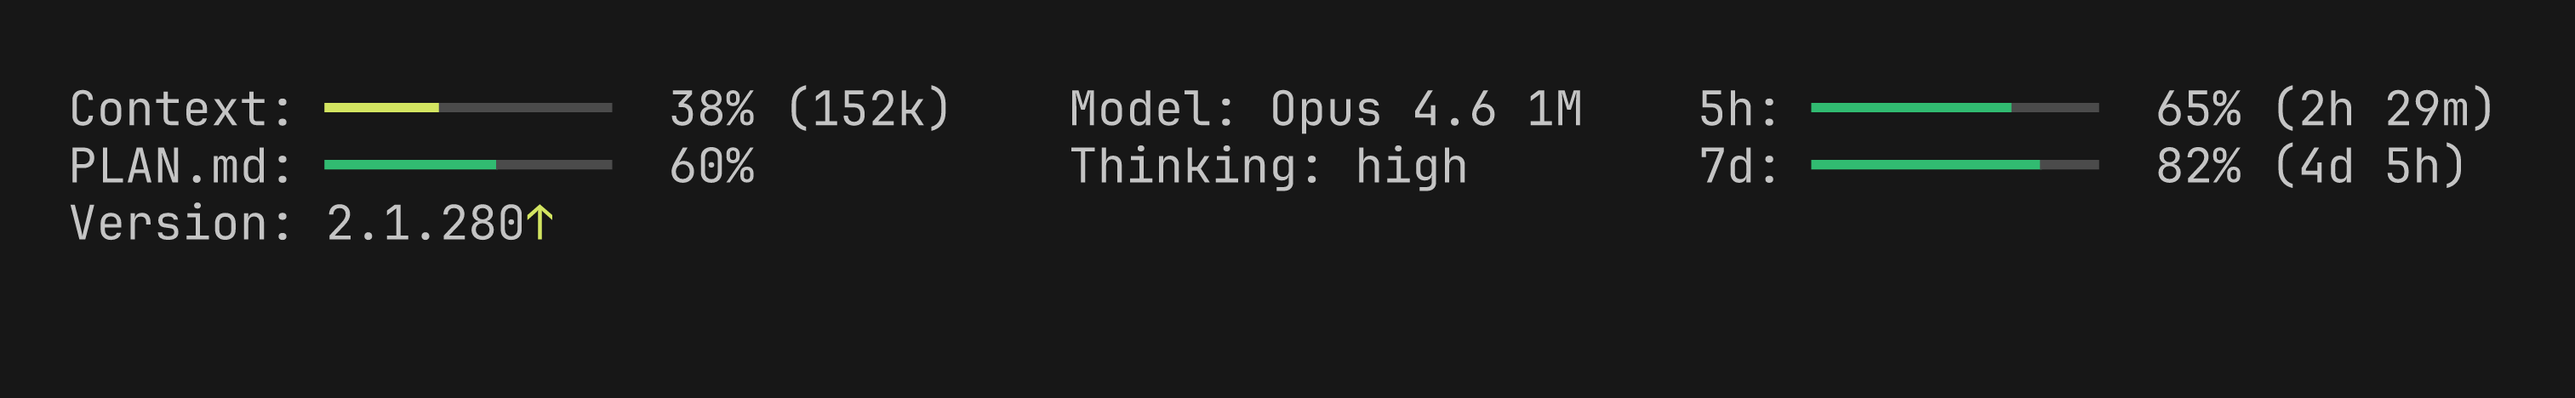
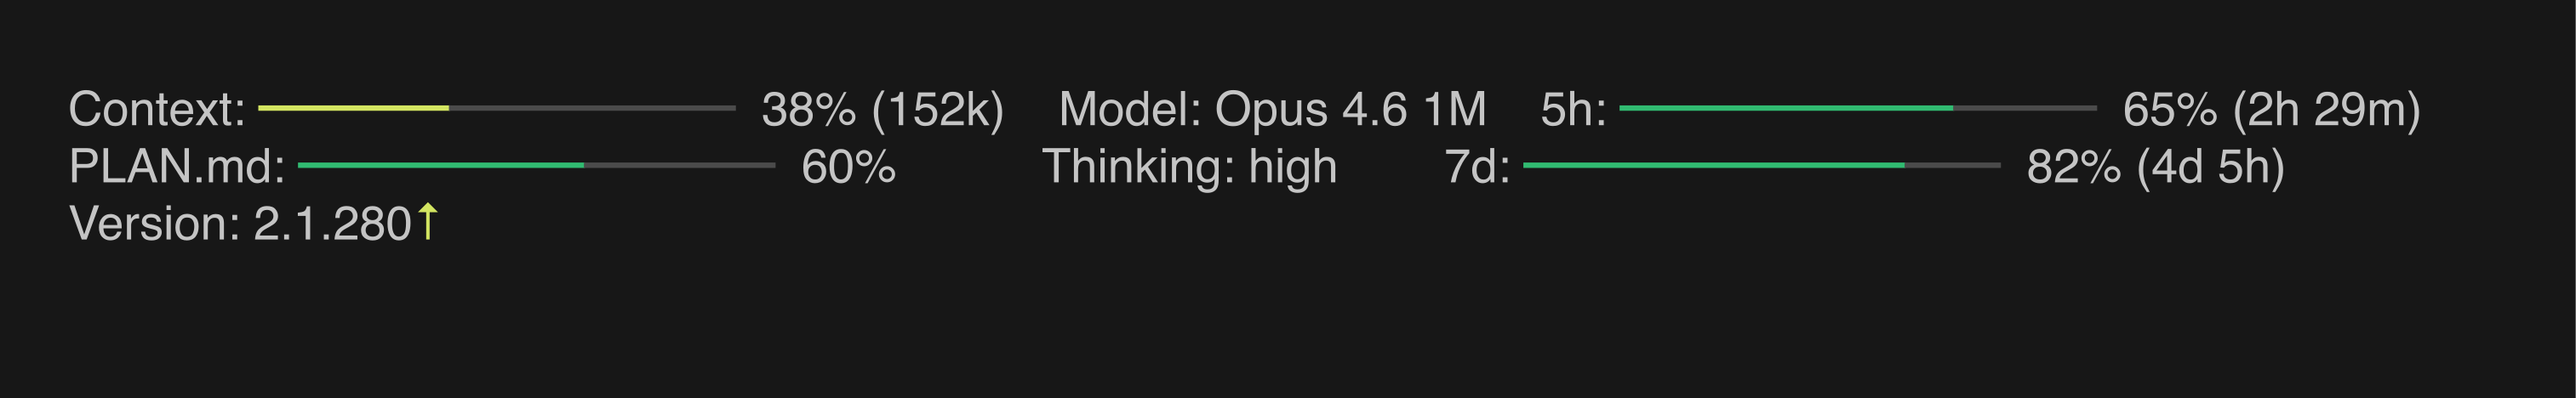
[tool] Build: Split cross-compile build from release
- Move zigbuild into scripts/build.nu taking a target and a cargo profile
- Share the target list between build and release scripts
- Write binaries to target/dist with install so macOS does not kill rebuilt binaries
- Replace rust::build with the cross-compile build and add rust::build-host
- Install, run, demo and readme-screenshot use the native host binary with the fast profile
- Publish uploads from target/dist
- Drop root build output patterns from .gitignore
- Regenerate screenshot.png

diff --git a/AGENTS.md b/AGENTS.md
@@ -35,11 +35,12 @@ Current version from `claude --version`. Latest version fetched from `https://re
 - `just check`: Run lint and format checks
 - `just test`: Run Rust tests
 - `just tools::check`: Lint Nix, Nushell, Woodpecker and Renovate config
-- `just demo`: Run with sample data (builds musl debug binary, uses real cache/version)
 - `--debug`: Log raw stdin payload to `~/.cache/claude-statusline/error.log`
 - `just logs-tail`: Follow `~/.cache/claude-statusline/error.log`
 - `just logs-clear`: Empty the error log and remove its rotated copy
-- `just release build <target>`: Cross-compile one target triple, or `all`, with persistent Podman caches
+- `just rust::build <target> <profile>`: Cross-compile one target triple, or `all`, into `target/dist` with persistent Podman caches
+- `just install`: Cross-compile the host target with the `fast` profile into `~/.cargo/bin`
+- `just demo`: Pipe sample data through `just rust::run` (uses real cache/version)
 - `just worktree-add <name>`: Create a new worktree with branch `<name>` at `../<name>`
 - `just worktree-remove <name>`: Remove worktree and delete branch `<name>`
 - `just readme-screenshot`: Regenerate `screenshot.png` for the README
